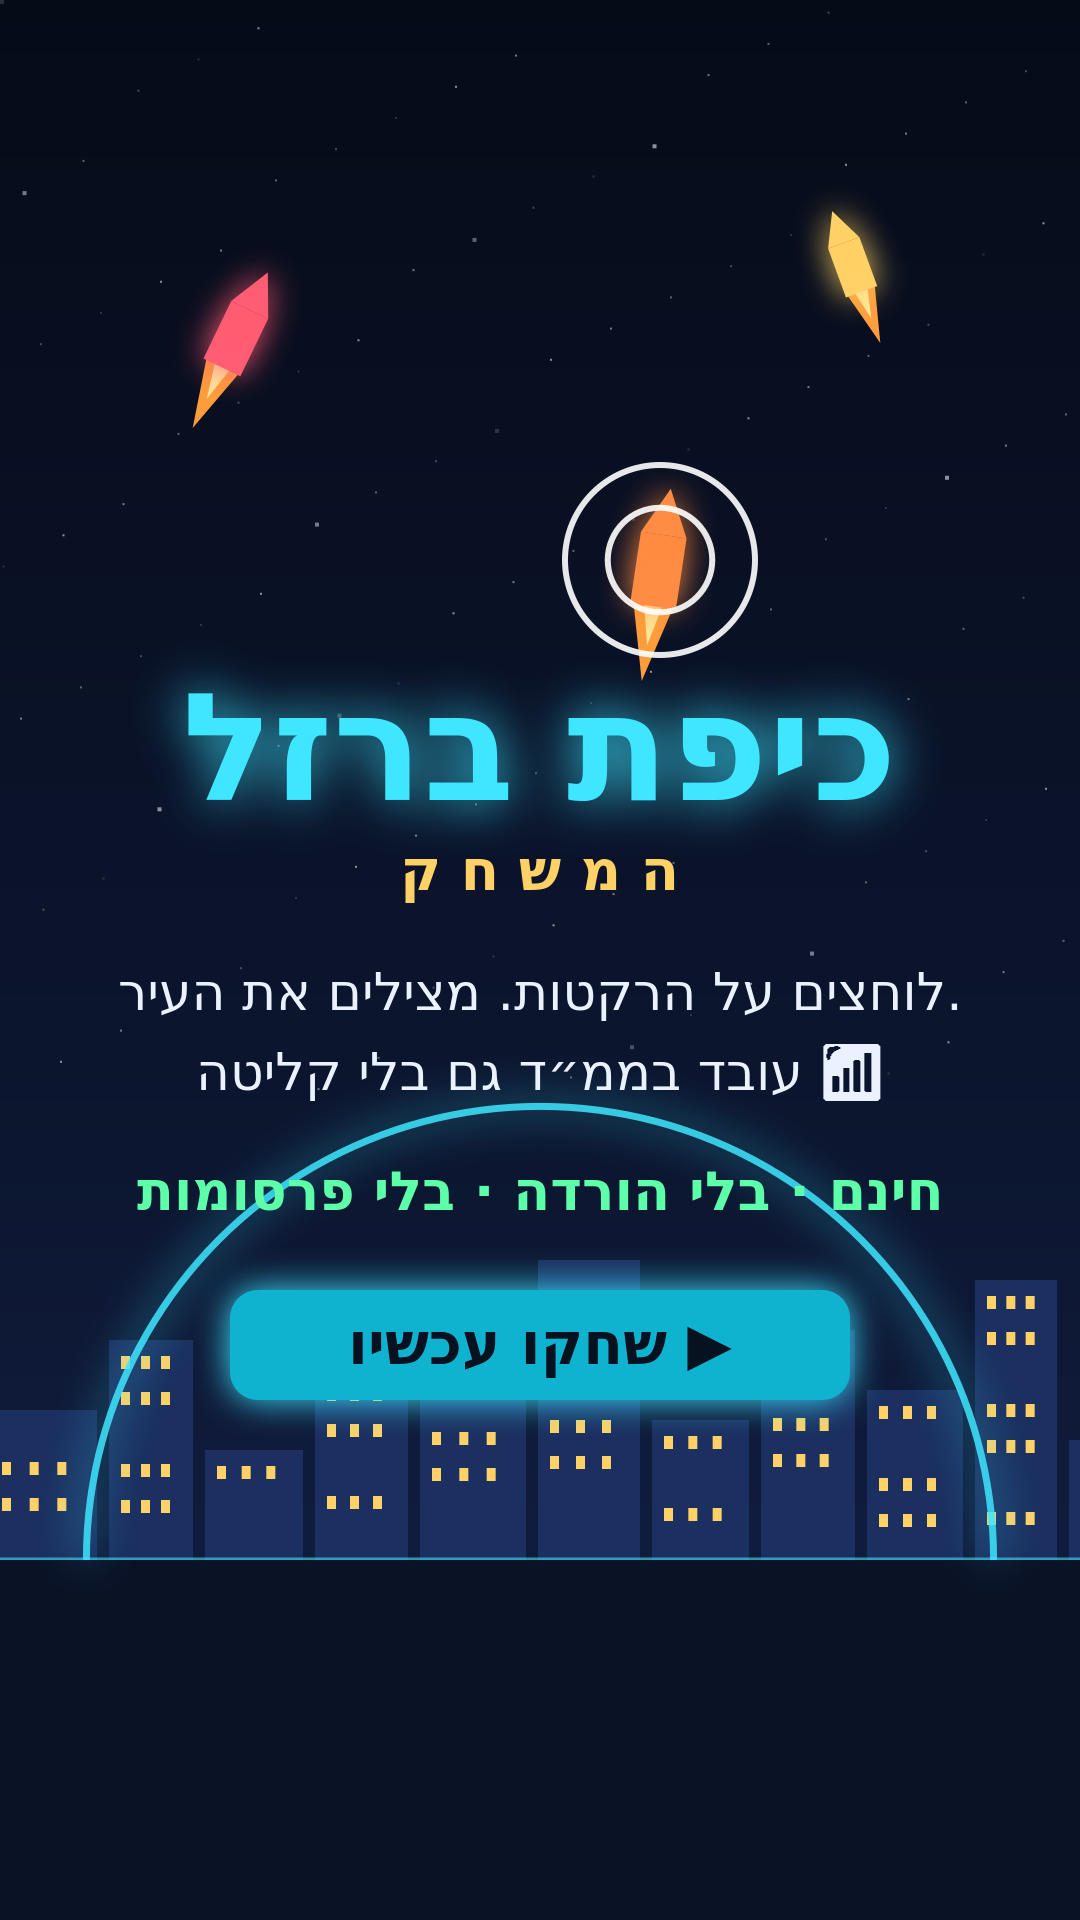
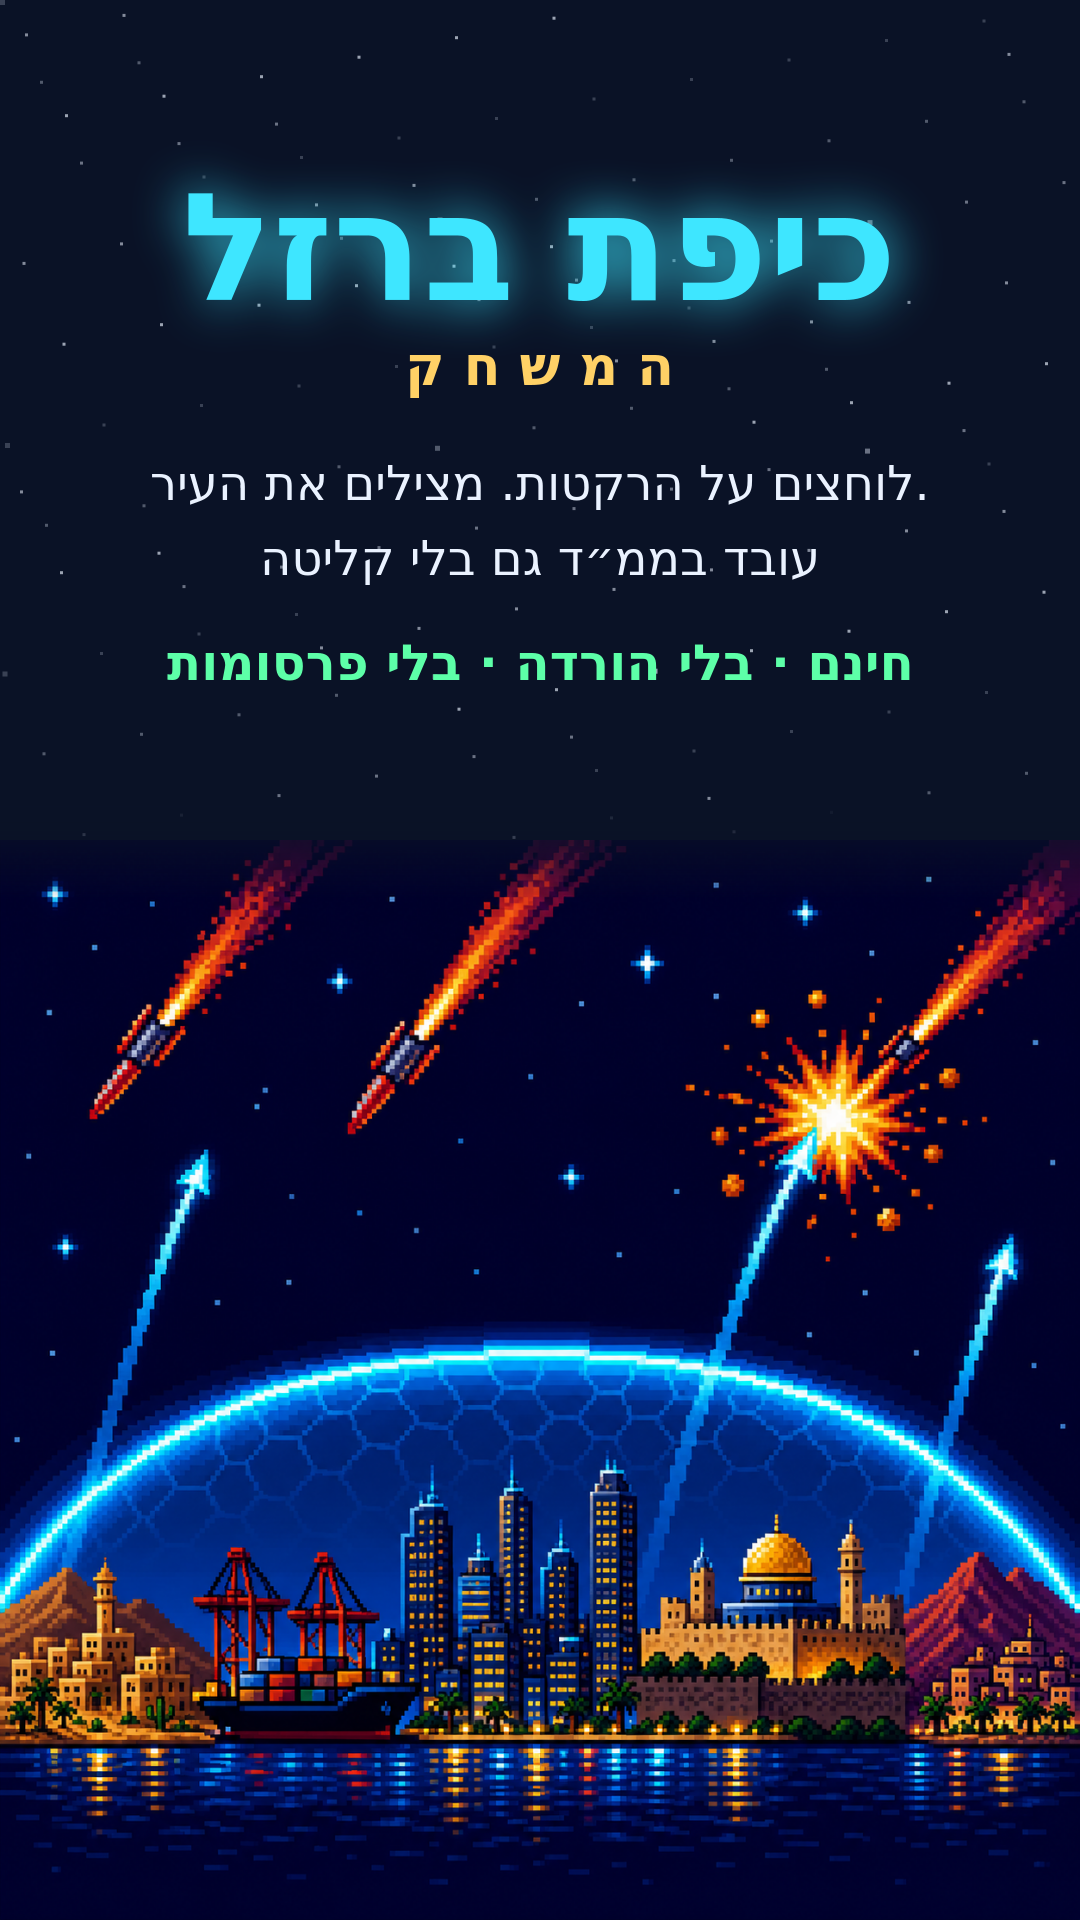
Elite art pass: retro pixel art across share card + all promo assets
Zorba's ChatGPT retro set (full-res) composited into production:
- share-card.jpg 1200x630 @ 170KB (WhatsApp-safe; og/twitter tags
  updated from the old .png): retro dome + interceptor starburst
  with Hebrew/English title block on the clean sky
- story 1080x1920: square panorama art + extended starfield + full
  Hebrew typography block
- square-1080: retro falafel explosion + pita, caption strip
- press-hero 1920x1080: the maximal barrage panorama
- originals preserved in content-assets/irondome-promo/art/

https://claude.ai/code/session_01FhxA9RqQLo75hUS9dsu7up

diff --git a/irondome/index.html b/irondome/index.html
@@ -9,13 +9,13 @@
 <meta property="og:title" content="כיפת ברזל — המשחק | Iron Dome">
 <meta property="og:description" content="לחצו על הרקטות לפני שהן נופלות. עובד בממ״ד בלי קליטה. חינם, בלי הורדה — שניה ואתם משחקים.">
 <meta property="og:url" content="https://zorbachin.github.io/dubaiai-pro/irondome/">
-<meta property="og:image" content="https://zorbachin.github.io/dubaiai-pro/irondome/share-card.png">
+<meta property="og:image" content="https://zorbachin.github.io/dubaiai-pro/irondome/share-card.jpg">
 <meta property="og:image:width" content="1200">
 <meta property="og:image:height" content="630">
 <meta property="og:locale" content="he_IL">
 <meta name="twitter:card" content="summary_large_image">
 <meta name="twitter:title" content="כיפת ברזל — Iron Dome">
-<meta name="twitter:image" content="https://zorbachin.github.io/dubaiai-pro/irondome/share-card.png">
+<meta name="twitter:image" content="https://zorbachin.github.io/dubaiai-pro/irondome/share-card.jpg">
 <meta name="apple-mobile-web-app-capable" content="yes">
 <meta name="apple-mobile-web-app-status-bar-style" content="black-translucent">
 <link rel="manifest" href="manifest.webmanifest">